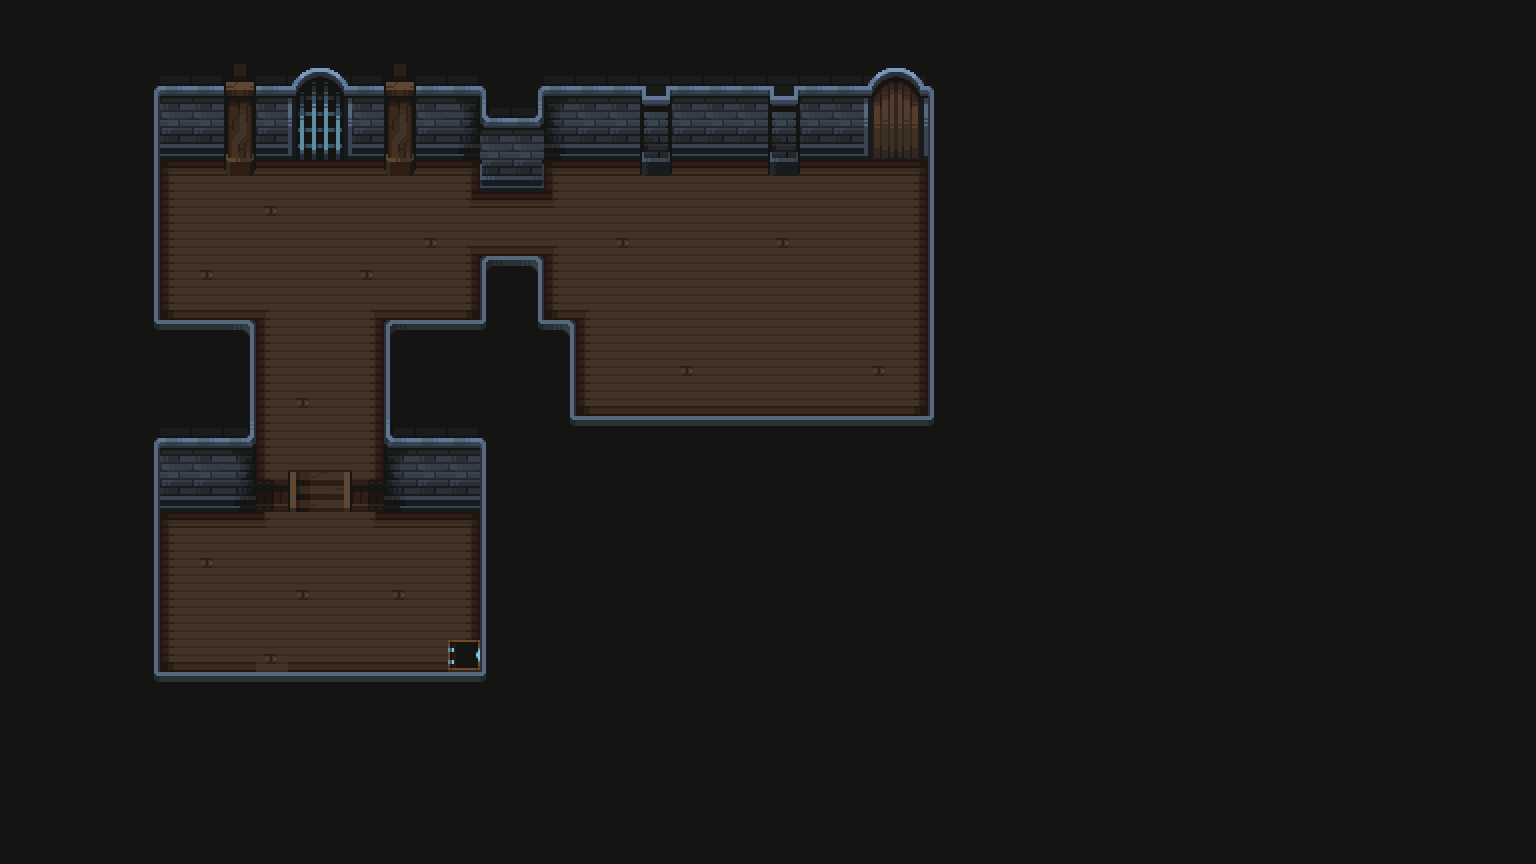
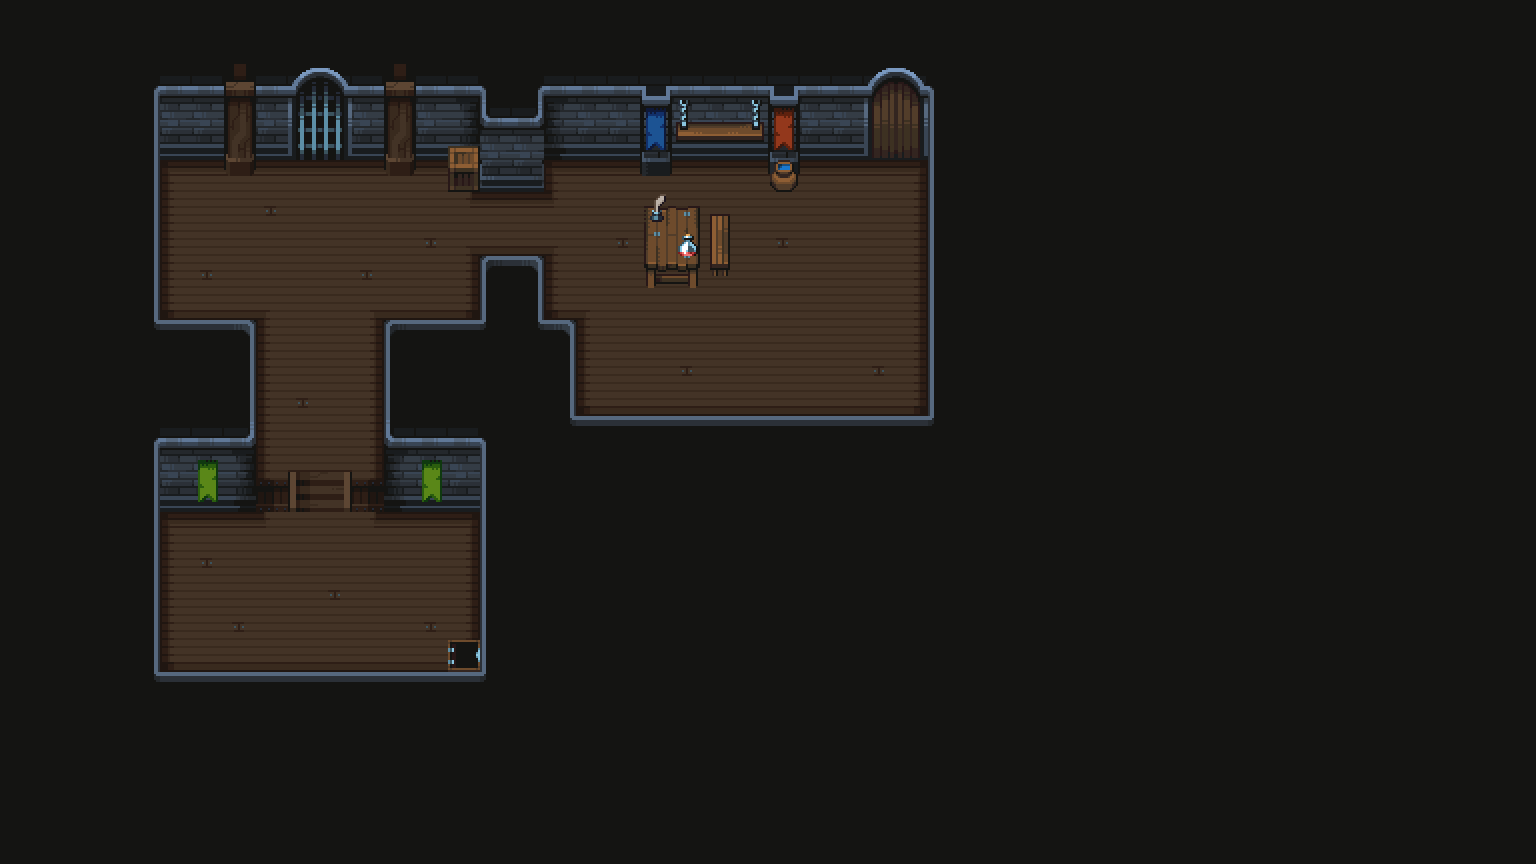
updated the lvl 1 gamemap and collision/tilemap

diff --git a/levels.js b/levels.js
@@ -6,19 +6,19 @@ let gameLevels = {
         [0,0,0,0,0,0,0,0,0,0,0,0,0,0,0,0,0,0,0,0,0,0,0,0,0,0,0,0,0,0,0,0,0,0,0,0,0,0,0,0,0,0,0,0,0,0,0,0],
         [0,0,0,0,0,0,0,0,0,0,0,0,0,0,0,0,0,0,0,0,0,0,0,0,0,0,0,0,0,0,0,0,0,0,0,0,0,0,0,0,0,0,0,0,0,0,0,0],
         [0,0,0,0,0,0,0,0,0,0,0,0,0,0,0,0,0,0,0,0,0,0,0,0,0,0,0,0,0,0,0,0,0,0,0,0,0,0,0,0,0,0,0,0,0,0,0,0],
-        [0,0,0,0,0,0,0,0,0,0,0,0,0,0,0,0,0,0,0,0,0,0,0,0,0,0,0,0,0,0,0,0,0,0,0,0,0,0,0,0,0,0,0,0,0,0,0,0],
-        [0,0,0,0,0,1,1,1,1,1,1,1,1,1,1,0,0,1,1,1,1,1,1,1,1,1,1,1,1,0,0,0,0,0,0,0,0,0,0,0,0,0,0,0,0,0,0,0],
-        [0,0,0,0,1,0,0,0,0,0,0,0,0,0,0,1,1,0,0,0,0,0,0,0,0,0,0,0,0,1,0,0,0,0,0,0,0,0,0,0,0,0,0,0,0,0,0,0],
-        [0,0,0,0,1,0,0,0,0,0,0,0,0,0,0,0,0,0,0,0,0,0,0,0,0,0,0,0,0,1,0,0,0,0,0,0,0,0,0,0,0,0,0,0,0,0,0,0],
-        [0,0,0,0,1,0,0,0,0,0,0,0,0,0,0,0,0,0,0,0,0,0,0,0,0,0,0,0,0,1,0,0,0,0,0,0,0,0,0,0,0,0,0,0,0,0,0,0],
+        [0,0,0,0,0,1,1,1,1,1,1,1,1,1,0,0,0,1,1,1,1,1,1,1,1,1,1,1,1,0,0,0,0,0,0,0,0,0,0,0,0,0,0,0,0,0,0,0],
+        [0,0,0,0,1,0,0,0,0,0,0,0,0,0,1,1,1,0,0,0,1,0,0,0,1,0,0,0,0,1,0,0,0,0,0,0,0,0,0,0,0,0,0,0,0,0,0,0],
+        [0,0,0,0,1,0,0,0,0,0,0,0,0,0,0,0,0,0,0,0,0,0,0,0,1,0,0,0,0,1,0,0,0,0,0,0,0,0,0,0,0,0,0,0,0,0,0,0],
+        [0,0,0,0,1,0,0,0,0,0,0,0,0,0,0,0,0,0,0,0,1,1,0,0,0,0,0,0,0,1,0,0,0,0,0,0,0,0,0,0,0,0,0,0,0,0,0,0],
+        [0,0,0,0,1,0,0,0,0,0,0,0,0,0,0,0,0,0,0,0,1,1,1,0,0,0,0,0,0,1,0,0,0,0,0,0,0,0,0,0,0,0,0,0,0,0,0,0],
         [0,0,0,0,1,0,0,0,0,0,0,0,0,0,0,1,1,0,0,0,0,0,0,0,0,0,0,0,0,1,0,0,0,0,0,0,0,0,0,0,0,0,0,0,0,0,0,0],
         [0,0,0,0,1,0,0,0,0,0,0,0,0,0,0,1,1,0,0,0,0,0,0,0,0,0,0,0,0,1,0,0,0,0,0,0,0,0,0,0,0,0,0,0,0,0,0,0],
         [0,0,0,0,0,1,1,1,0,0,0,0,1,1,1,0,0,1,0,0,0,0,0,0,0,0,0,0,0,1,0,0,0,0,0,0,0,0,0,0,0,0,0,0,0,0,0,0],
         [0,0,0,0,0,0,0,1,0,0,0,0,1,0,0,0,0,1,0,0,0,0,0,0,0,0,0,0,0,1,0,0,0,0,0,0,0,0,0,0,0,0,0,0,0,0,0,0],
         [0,0,0,0,0,0,0,1,0,0,0,0,1,0,0,0,0,1,0,0,0,0,0,0,0,0,0,0,0,1,0,0,0,0,0,0,0,0,0,0,0,0,0,0,0,0,0,0],
         [0,0,0,0,0,0,0,1,0,0,0,0,1,0,0,0,0,0,1,1,1,1,1,1,1,1,1,1,1,0,0,0,0,0,0,0,0,0,0,0,0,0,0,0,0,0,0,0],
-        [0,0,0,0,0,0,0,1,0,0,0,0,1,0,0,0,0,0,0,0,0,0,0,0,0,0,0,0,0,0,0,0,0,0,0,0,0,0,0,0,0,0,0,0,0,0,0,0],
         [0,0,0,0,0,1,1,1,0,0,0,0,1,1,1,0,0,0,0,0,0,0,0,0,0,0,0,0,0,0,0,0,0,0,0,0,0,0,0,0,0,0,0,0,0,0,0,0],
+        [0,0,0,0,1,0,0,0,0,0,0,0,0,0,0,1,0,0,0,0,0,0,0,0,0,0,0,0,0,0,0,0,0,0,0,0,0,0,0,0,0,0,0,0,0,0,0,0],
         [0,0,0,0,1,0,0,0,0,0,0,0,0,0,0,1,0,0,0,0,0,0,0,0,0,0,0,0,0,0,0,0,0,0,0,0,0,0,0,0,0,0,0,0,0,0,0,0],
         [0,0,0,0,1,0,0,0,0,0,0,0,0,0,0,1,0,0,0,0,0,0,0,0,0,0,0,0,0,0,0,0,0,0,0,0,0,0,0,0,0,0,0,0,0,0,0,0],
         [0,0,0,0,1,0,0,0,0,0,0,0,0,0,0,1,0,0,0,0,0,0,0,0,0,0,0,0,0,0,0,0,0,0,0,0,0,0,0,0,0,0,0,0,0,0,0,0],
@@ -30,7 +30,6 @@ let gameLevels = {
         [0,0,0,0,0,0,0,0,0,0,0,0,0,0,0,0,0,0,0,0,0,0,0,0,0,0,0,0,0,0,0,0,0,0,0,0,0,0,0,0,0,0,0,0,0,0,0,0],
         [0,0,0,0,0,0,0,0,0,0,0,0,0,0,0,0,0,0,0,0,0,0,0,0,0,0,0,0,0,0,0,0,0,0,0,0,0,0,0,0,0,0,0,0,0,0,0,0],
         [0,0,0,0,0,0,0,0,0,0,0,0,0,0,0,0,0,0,0,0,0,0,0,0,0,0,0,0,0,0,0,0,0,0,0,0,0,0,0,0,0,0,0,0,0,0,0,0]
-
       ],
       "collisionMap": [
         [0,0,0,0,0,0,0,0,0,0,0,0,0,0,0,0,0,0,0,0,0,0,0,0,0,0,0,0,0,0,0,0,0,0,0,0,0,0,0,0,0,0,0,0,0,0,0,0],
@@ -38,10 +37,10 @@ let gameLevels = {
         [0,0,0,0,0,0,0,0,0,0,0,0,0,0,0,0,0,0,0,0,0,0,0,0,0,0,0,0,0,0,0,0,0,0,0,0,0,0,0,0,0,0,0,0,0,0,0,0],
         [0,0,0,0,0,0,0,0,0,0,0,0,0,0,0,0,0,0,0,0,0,0,0,0,0,0,0,0,0,0,0,0,0,0,0,0,0,0,0,0,0,0,0,0,0,0,0,0],
         [0,0,0,0,0,1,1,1,1,1,1,1,1,1,1,0,0,1,1,1,1,1,1,1,1,1,1,1,1,0,0,0,0,0,0,0,0,0,0,0,0,0,0,0,0,0,0,0],
-        [0,0,0,0,1,0,0,0,0,0,0,0,0,0,0,1,1,0,0,0,0,0,0,0,0,0,0,0,0,1,0,0,0,0,0,0,0,0,0,0,0,0,0,0,0,0,0,0],
-        [0,0,0,0,1,0,0,0,0,0,0,0,0,0,0,0,0,0,0,0,0,0,0,0,0,0,0,0,0,1,0,0,0,0,0,0,0,0,0,0,0,0,0,0,0,0,0,0],
-        [0,0,0,0,1,0,0,0,0,0,0,0,0,0,0,0,0,0,0,0,0,0,0,0,0,0,0,0,0,1,0,0,0,0,0,0,0,0,0,0,0,0,0,0,0,0,0,0],
-        [0,0,0,0,1,0,0,0,0,0,0,0,0,0,0,1,1,0,0,0,0,0,0,0,0,0,0,0,0,1,0,0,0,0,0,0,0,0,0,0,0,0,0,0,0,0,0,0],
+        [0,0,0,0,1,0,0,0,0,0,0,0,0,0,0,1,1,0,0,0,0,0,0,0,1,0,0,0,0,1,0,0,0,0,0,0,0,0,0,0,0,0,0,0,0,0,0,0],
+        [0,0,0,0,1,0,0,0,0,0,0,0,0,0,0,0,0,0,0,0,1,1,1,0,0,0,0,0,0,1,0,0,0,0,0,0,0,0,0,0,0,0,0,0,0,0,0,0],
+        [0,0,0,0,1,0,0,0,0,0,0,0,0,0,0,0,0,0,0,0,1,1,1,0,0,0,0,0,0,1,0,0,0,0,0,0,0,0,0,0,0,0,0,0,0,0,0,0],
+        [0,0,0,0,1,0,0,0,0,0,0,0,0,0,0,1,1,0,0,0,1,1,0,0,0,0,0,0,0,1,0,0,0,0,0,0,0,0,0,0,0,0,0,0,0,0,0,0],
         [0,0,0,0,1,0,0,0,0,0,0,0,0,0,0,1,1,0,0,0,0,0,0,0,0,0,0,0,0,1,0,0,0,0,0,0,0,0,0,0,0,0,0,0,0,0,0,0],
         [0,0,0,0,0,1,1,1,0,0,0,0,1,1,1,0,0,1,0,0,0,0,0,0,0,0,0,0,0,1,0,0,0,0,0,0,0,0,0,0,0,0,0,0,0,0,0,0],
         [0,0,0,0,0,0,0,1,0,0,0,0,1,0,0,0,0,1,0,0,0,0,0,0,0,0,0,0,0,1,0,0,0,0,0,0,0,0,0,0,0,0,0,0,0,0,0,0],
@@ -60,7 +59,6 @@ let gameLevels = {
         [0,0,0,0,0,0,0,0,0,0,0,0,0,0,0,0,0,0,0,0,0,0,0,0,0,0,0,0,0,0,0,0,0,0,0,0,0,0,0,0,0,0,0,0,0,0,0,0],
         [0,0,0,0,0,0,0,0,0,0,0,0,0,0,0,0,0,0,0,0,0,0,0,0,0,0,0,0,0,0,0,0,0,0,0,0,0,0,0,0,0,0,0,0,0,0,0,0],
         [0,0,0,0,0,0,0,0,0,0,0,0,0,0,0,0,0,0,0,0,0,0,0,0,0,0,0,0,0,0,0,0,0,0,0,0,0,0,0,0,0,0,0,0,0,0,0,0]
-
       ],
       "playerPosition": {
         "x": 6.5,
